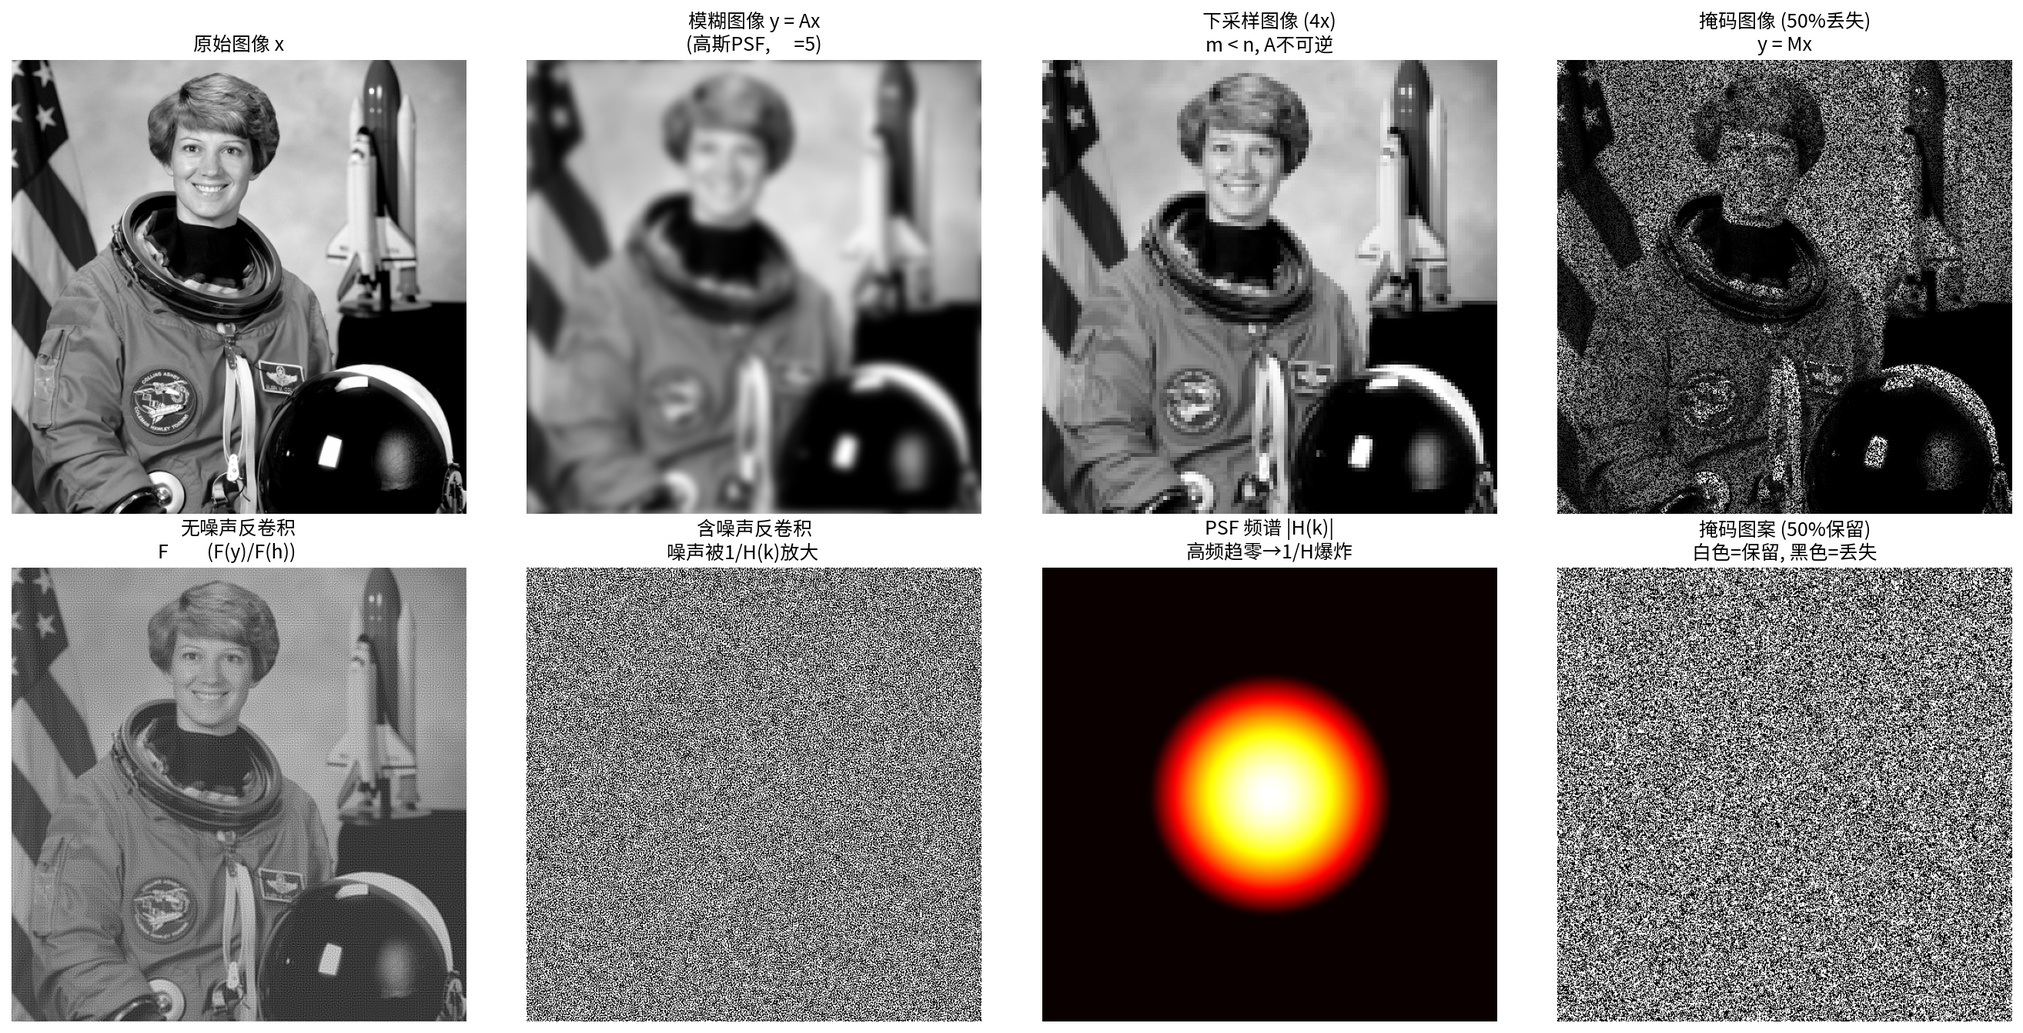
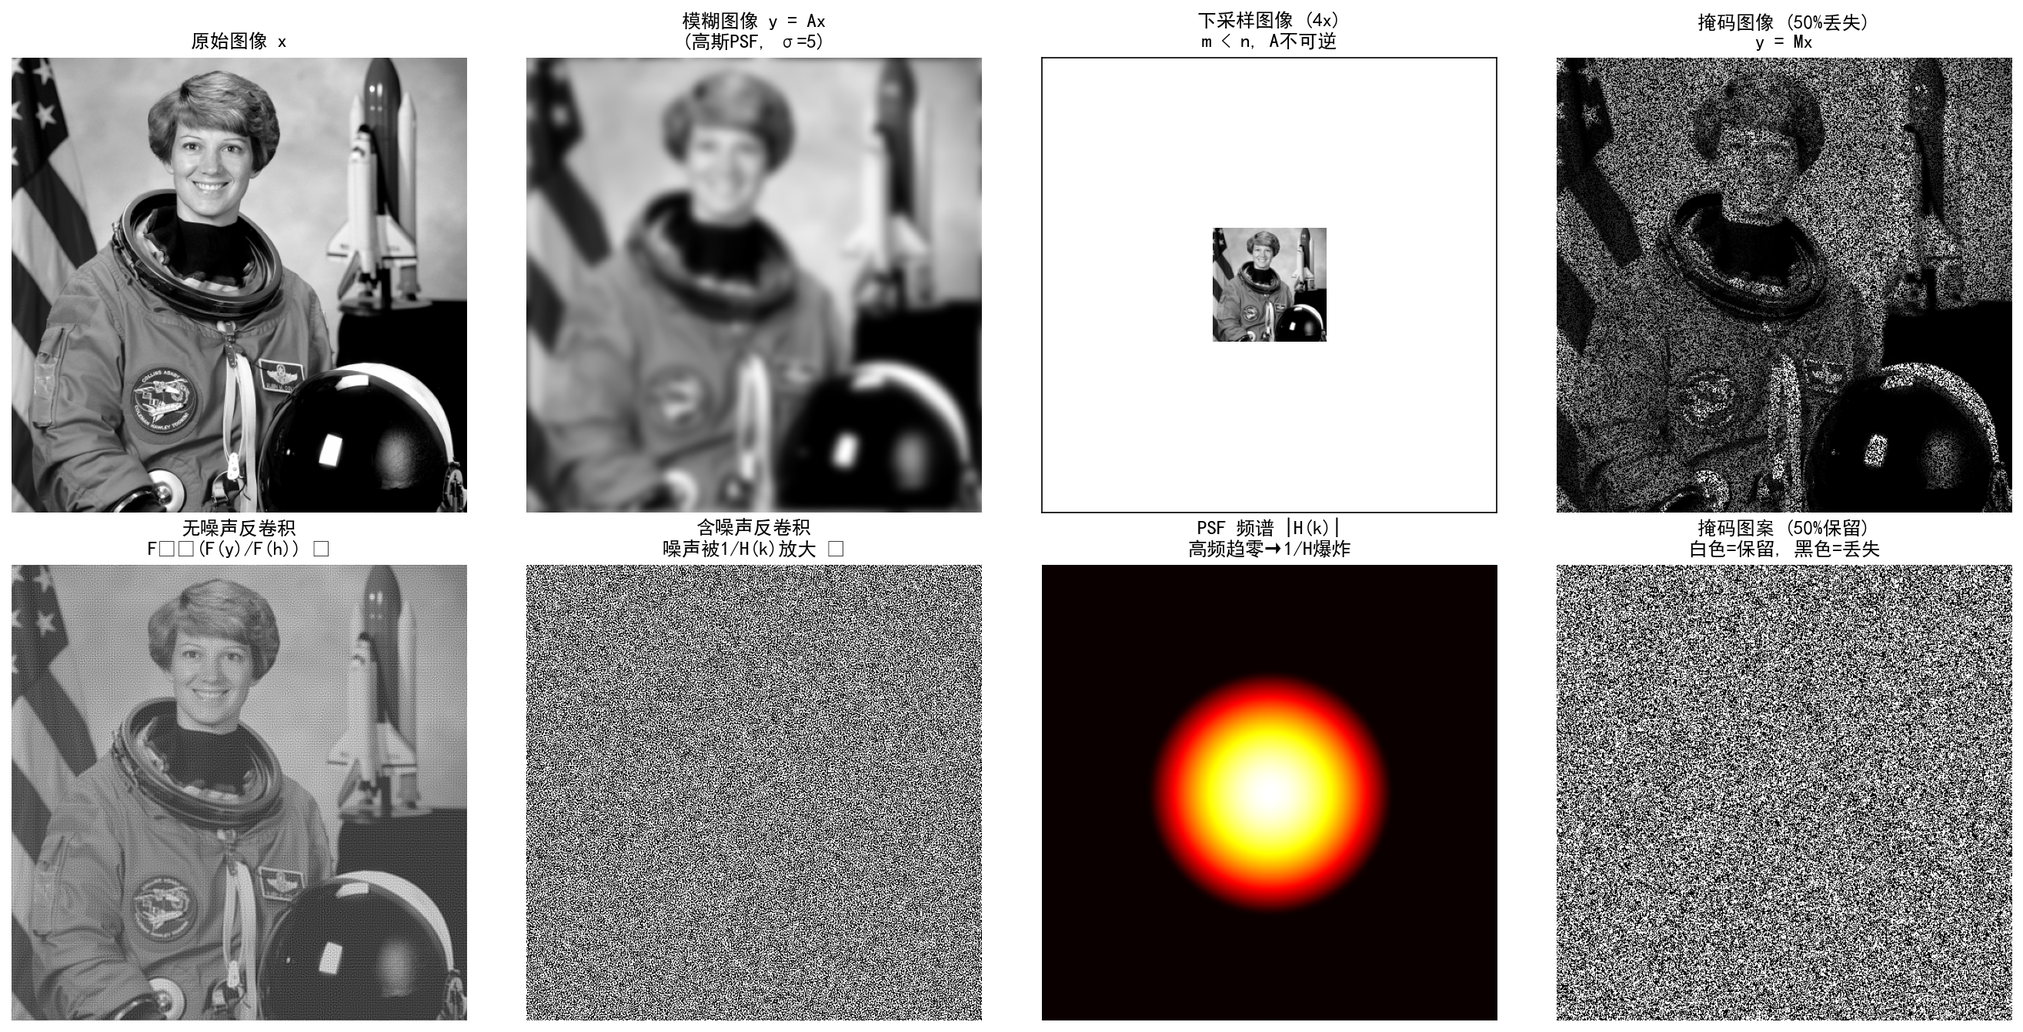
1

diff --git a/第1章 逆问题与贝叶斯推断/第一章 配套实验/实验1.2-2/1.2-2.py b/第1章 逆问题与贝叶斯推断/第一章 配套实验/实验1.2-2/1.2-2.py
@@ -106,11 +106,16 @@ axes[1, 1].set_title('误差热力图\n|x - x_FBP|')
 axes[1, 1].axis('off')
 plt.colorbar(im2, ax=axes[1, 1], fraction=0.046, pad=0.04)
 
-axes[1, 2].text(0.1, 0.7, f'FBP 重建指标:', fontsize=12, fontweight='bold')
-axes[1, 2].text(0.1, 0.5, f'投影角度数: {len(theta)}', fontsize=11)
-axes[1, 2].text(0.1, 0.3, f'RMSE: {rmse_fbp:.4f}', fontsize=11)
-axes[1, 2].text(0.1, 0.1, f'PSNR: {psnr_fbp:.2f} dB', fontsize=11)
-axes[1, 2].axis('off')
+# 第 6 格：稀疏角度下的正弦图——直观展示"投影角度不足时正向信息大量缺失"，
+# 为 1.3 节不适定性（角度不足→信息不可逆丢失）埋下伏笔
+theta_sparse = np.linspace(0, 180, 30, endpoint=False)
+sinogram_sparse = radon(phantom, theta=theta_sparse, circle=True)
+im3 = axes[1, 2].imshow(sinogram_sparse, cmap='gray', aspect='auto',
+                        extent=[theta_sparse.min(), theta_sparse.max(), sinogram_sparse.shape[0], 0])
+axes[1, 2].set_title(f'稀疏角度正弦图 (仅 {len(theta_sparse)} 个角度)\n采样不足 → 正向信息缺失', fontsize=11)
+axes[1, 2].set_xlabel('投影角度 θ (°)')
+axes[1, 2].set_ylabel('探测器位置 t')
+plt.colorbar(im3, ax=axes[1, 2], fraction=0.046, pad=0.04)
 
 plt.suptitle('Radon 变换与 FBP 重建\n（CT 成像的正向模型 $y = Ax$ 与逆问题求解）', fontsize=14, y=1.02)
 plt.tight_layout()
@@ -129,6 +134,7 @@ import json
 results_summary = {
     'image_size': n,
     'num_projection_angles': len(theta),
+    'num_projection_angles_sparse': len(theta_sparse),
     'rmse_fbp': float(round(rmse_fbp, 6)),
     'psnr_fbp_dB': float(round(psnr_fbp, 2)),
 }

diff --git a/第1章 逆问题与贝叶斯推断/第一章 配套实验/实验1.2-1/1.2-1.py b/第1章 逆问题与贝叶斯推断/第一章 配套实验/实验1.2-1/1.2-1.py
@@ -95,9 +95,19 @@ axes[0, 1].imshow(y_blur, cmap='gray')
 axes[0, 1].set_title('模糊图像 y = Ax\n(高斯PSF, σ=5)')
 axes[0, 1].axis('off')
 
-axes[0, 2].imshow(y_ds, cmap='gray')
+# 下采样图真实尺寸只有 128×128，这里不拉升、保持真实像素尺寸，
+# 用 extent 把它居中放在 512×512 坐标系的正中，四周留白，
+# 让它在其子图框内明显比其它 512×512 的子图小，直观体现"信息不可逆丢失"
+half = y_ds.shape[0] / 2.0
+cx = n / 2.0
+axes[0, 2].imshow(y_ds, cmap='gray',
+                  extent=[cx - half, cx + half, cx + half, cx - half],
+                  aspect='equal')
+axes[0, 2].set_xlim(0, n)
+axes[0, 2].set_ylim(n, 0)          # imshow 原点在左上，故 y 轴反向
 axes[0, 2].set_title('下采样图像 (4x)\nm < n, A不可逆')
-axes[0, 2].axis('off')
+axes[0, 2].set_xticks([])
+axes[0, 2].set_yticks([])
 
 axes[0, 3].imshow(y_mask, cmap='gray')
 axes[0, 3].set_title('掩码图像 (50%丢失)\ny = Mx')

diff --git a/第1章 逆问题与贝叶斯推断/1.1 什么是逆问题.md b/第1章 逆问题与贝叶斯推断/1.1 什么是逆问题.md
@@ -8,7 +8,7 @@
 - 你听到走廊里一串脚步声，马上判断"这大概是谁来了"；
 - 你面对一幅缺了角的拼图，会盯着那几块碎片，推断缺失的部分该是什么图案。
 
-这些动作看似平常，其实共享着同一种思维模式——**从看得见的"效果"，去反推看不见的"原因"**。
+这些动作看似平常，其实共享着同一种思维模式——**从感受到的"效果"，去反推看不见的"原因"**。
 
 科学和工程里也全是这种场景：
 
@@ -34,7 +34,7 @@
 </tr>
 </table>
 <p style="font-size: 0.9em; color: #666; margin-top: 10px;">
-<strong>图1.1-1.3</strong> 逆问题的典型应用：(左)CT医学成像，通过X射线投影重建人体内部结构；(中)天文学成像，从稀疏观测数据重建黑洞影像；(右)地球物理勘探，从地震波记录推断地下结构。
+<strong>图1.1-1.3</strong> 是逆问题的典型应用：(左)CT医学成像，通过X射线投影重建人体内部结构；(中)天文学成像，从稀疏观测数据重建黑洞影像；(右)地球物理勘探，从地震波记录推断地下结构。
 </p>
 </div>
 
@@ -42,7 +42,6 @@
 
 **这，就是逆问题（inverse problem）的核心——从效果反推原因。**
 
-> **路标句**：把"逆问题"这个词先混个眼熟就行。它和"正问题"是一对反义词，下一节我们马上拆开看。
 
 ---
 
@@ -69,9 +68,7 @@ $$y = Ax$$
 | 典型例子 | 已知器官密度，计算X射线投影 | 已知X射线投影，重建器官密度图像 |
 | 难度 | 一般可直接计算 | 需要正则化等额外手段 |
 
-> **路标句**：这里"适定/不适定"这两个词先混个眼熟就行，1.3 节我们会专门拆解它们到底是什么意思。
-
-在图像与视觉领域，逆问题简直无处不在：**去模糊**（从模糊图恢复清晰图）、**超分辨率**（从低分辨率重建高分辨率细节）、**CT重建**（从投影数据恢复截面）、**图像修复**（填补缺失区域）……本质上全都是"从退化或残缺的观测里，把原始场景信息捞回来"。
+在图像与视觉领域，逆问题简直无处不在：**去模糊**（从模糊图恢复清晰图）、**超分辨率**（从低分辨率重建高分辨率细节）、**CT重建**（从投影数据恢复截面）、**图像修复**（填补缺失区域）……本质上全都是"从退化或残缺的观测里，把原始场景信息捞回来"。而文生图则是这一逻辑的极端推演：它试图仅凭高度抽象的语义描述，从近乎空白的观测中“无中生有”地恢复出视觉实体，将逆问题的欠定性推向了极致。
 
 **因为**逆问题和"正问题"是镜像关系，所以理解逆问题最快的捷径，是先吃透正向模型。以 CT 重建为例（图1.4）：正问题把物体截面沿各个角度做线积分（这叫 Radon 变换，1.2 节会细讲），得到一张叫"正弦图"（sinogram）的投影数据；逆问题则是从这张正弦图出发，重建出原始截面。你可以清楚看到——正弦图本身根本没法"直接读"，必须解逆问题才能得到能看懂的图。
 
@@ -80,7 +77,7 @@ $$y = Ax$$
 <br/><strong>图1.4</strong> 核桃的二维截面（左）及其对应的正弦图（右）。正弦图是CT扫描仪的直接输出——各角度的线积分投影。它本身无法直观解读，必须求解逆问题才能重建出可理解的截面图像。
 </div>
 
-> **逆问题的分类（先知道有这回事）。** 按正向模型是否线性，逆问题分**线性逆问题**（$y = Ax$）和**非线性逆问题**（$y = \mathcal{A}(x)$）。按是否满足 Hadamard 三准则，又分**适定**和**不适定**两类。本书聚焦**线性不适定逆问题**——这是最基础也最普遍的情形，贝叶斯框架的数学推导在这里最干净。非线性情形（如相位恢复、盲去卷积）思路相同但推导更复杂，第13章和第18章会初步触及。
+> **逆问题的分类。** 按正向模型是否线性，逆问题分**线性逆问题**（$y = Ax$）和**非线性逆问题**（$y = \mathcal{A}(x)$）。按是否满足 Hadamard 三准则，又分**适定**和**不适定**两类。本书聚焦**线性不适定逆问题**——这是最基础也最普遍的情形，贝叶斯框架的数学推导在这里最干净。非线性情形（如相位恢复、盲去卷积）思路相同但推导更复杂。
 
 ---
 
@@ -101,7 +98,7 @@ $$y = Ax$$
 **既然**直接求逆在数学上已经靠不住，从计算角度再拆一层，逆问题的困难还能归结为三道鸿沟：
 
 1. **从连续到离散**：真实物理过程发生在连续空间，但计算机只能在有限维度上算。离散化是必经之路，而离散化的方式和精度直接影响重建质量。
-2. **从精确到含噪**：理想模型假设 $y = Ax$，但实际观测总是 $y = Ax + \text{噪声}$。噪声看着小，却被逆运算放大成灾难性的误差——1.4 节系统建模噪声，1.5 节展示怎么同时对付噪声和不适用性。
+2. **从精确到含噪**：理想模型假设 $y = Ax$，但实际观测总是 $y = Ax + \text{噪声}\varepsilon$。噪声看着小，却被逆运算放大成灾难性的误差——我们在1.4 节会系统建模噪声，在1.5 节中展示怎么同时对付噪声和不适定性。
 3. **从无限到有限**：我们只有有限个观测值，却可能要重建无穷维的未知量。信息不足是本质性的，任何计算方法都得靠额外的先验知识来"补全"缺失信息。
 
 **于是**我们面对的是一个既缺信息、又带噪声、还被离散化约束的难题。图1.5 是地震成像的重建结果：从地表接收到的反射波（有限、含噪的离散数据）出发，算出地下不同深度的地层结构。这结果没法从原始观测直接读出，必须借助正则化和优化算法才能得到稳定、有意义的重建。
@@ -111,6 +108,6 @@ $$y = Ax$$
 <br/><strong>图1.5</strong> 典型的地震成像结果，展示了地下不同深度的地层结构。这些图像并非直接观测所得，而是从地震波场记录出发，通过求解逆问题并引入适当的正则化策略计算得到的。
 </div>
 
-**一句话收住本节**：计算逆问题的核心任务，是把逆问题的严格数学理论，扩展成能实际跑起来的算法——在有限、含噪的离散观测下，稳定地重建未知量。这不仅需要数学分析（刻画适定性和收敛性），还要数值线性代数、优化算法和统计推断一起上。
+计算逆问题的核心任务，是把逆问题的严格数学理论，扩展成能实际跑起来的算法——在有限、含噪的离散观测下，稳定地重建未知量。这不仅需要数学分析（刻画适定性和收敛性），还要数值线性代数、优化算法和统计推断一起上。
 
-> **接着往下走**：想讨论"怎么反推"，得先搞清"观测是怎么生成的"。这正是下一节（1.2）的主题——正向模型 $y = Ax$。
+>我们想讨论"怎么反推"，得先搞清"观测是怎么生成的"。这正是下一节（1.2）的主题——正向模型 $y = Ax$。

diff --git a/第1章 逆问题与贝叶斯推断/1.0 本章导读.md b/第1章 逆问题与贝叶斯推断/1.0 本章导读.md
@@ -10,9 +10,7 @@
 
 在动笔之前，我想先给你一个"上帝视角"，因为这个视角会贯穿全书。
 
-你可能会想：图像去模糊、CT 重建，这些不就是图像处理的小技巧吗？和机器学习、大语言模型（LLM）有什么关系？答案是——**它们本质上是同一个问题的不同侧面**。
-
-近年有一份很漂亮的综述（Elmusrati，《估计理论·机器学习·生成式 AI 的概率统一框架》）把这件事讲透了。它指出，从经典估计理论到现代深度学习、大模型，**最大似然（MLE）、最大后验（MAP）、贝叶斯推断、甚至注意力机制和 LLM，都是"从含噪或带偏的观测中推断隐藏成因"这一共同目标的不同表现形式**。
+你可能会想：图像去模糊、CT 重建，这些不就是图像处理的小技巧吗？和机器学习、图像生成有什么关系？答案是——**它们本质上是同一个问题的不同侧面**。实际上，从经典估计理论到现代深度学习、大模型，**最大似然（MLE）、最大后验（MAP）、贝叶斯推断、甚至注意力机制和 LLM，都是"从含噪或带偏的观测中推断隐藏成因"这一共同目标的不同表现形式**。
 
 怎么理解这句话？看这个统一模型：
 
@@ -25,7 +23,10 @@ $$y_t = f(\mathbf{x}, t) + n_t$$
 - **语言生成**：给一串上文 $\mathbf{x}$，预测下一个词 $y$；反过来，整段文本也是在"从残缺上下文推断隐藏语义成因"。
 - **图像重建**：给模糊/含噪观测 $y$，反推清晰原图 $\mathbf{x}$——这就是本书的主角。
 
-这份综述里有一句点睛之笔：**"最大似然、MAP、贝叶斯分类和深度学习，都代表了一个共同目标的不同侧面：从含噪或带偏的观测中推断隐藏成因。"**
+**最大似然、MAP、贝叶斯分类和深度学习，都代表了一个共同目标的不同侧面：从含噪或带偏的观测中推断隐藏成因。**
+
+> 上面这个统一模型 $y_t = f(\mathbf{x}, t) + n_t$ 是**最一般**的形式。本书**先把 $f$ 收敛到线性、无显式时间项的特例 $y = Ax+\varepsilon$**：现实里的成像系统（相机、CT、MRI）大多能很好地近似成线性，线性让我们可以用矩阵、SVD、算子理论把这些困难"摊开来看"。而通用索引$t$会在本书的下半部分讨论扩散模型生成时以过程步的形式出现。
+>
 
 所以你会发现一条清晰的演进链：
 - 没有先验知识时，我们用**最大似然（MLE）**——只信数据，找最贴合观测的 $\mathbf{x}$。
@@ -35,16 +36,6 @@ $$y_t = f(\mathbf{x}, t) + n_t$$
 
 **本书的全部故事，就是这条链的展开。** 而它的起点，正是本章要讲的两层困难和一个框架：逆问题为什么难，以及贝叶斯怎么同时化解这两难。
 
----
-
-**本章目标**（读完你应该能）：
-- 说清楚"逆问题"和"正问题"到底差在哪，为什么方向一反过来就变难了
-- 用数学式子 $y = Ax$ 描述"观测是怎么生成的"
-- 解释为什么直接求逆 $x = A^{-1}y$ 在绝大多数时候会翻车（第一层困难：不适定性）
-- 理解现实观测里的噪声从哪来、怎么用"似然函数"精确描述（第二层困难：噪声）
-- 用贝叶斯框架把"数据"和"信念"合在一起，得到一个关于 $x$ 的完整概率描述——并看清它和 MAP、MLE、乃至扩散模型是"一家人"
-
----
 
 ## 逆问题到底难在哪？两层困难
 
@@ -60,7 +51,7 @@ $$p(x|y) \propto p(y|x) \cdot p(x)$$
 
 左边 $p(x|y)$ 是**后验**（白话：给定观测后，$x$ 的概率分布——这也是我们最终的答案），右边 $p(y|x)$ 是**似然**（白话：数据告诉我们什么，用来应对噪声），乘上 $p(x)$ 是**先验**（白话：我们额外知道什么，用来应对不适定性）。这三样合起来，逆问题求解就不再是"找一个孤零零的数"，而是"刻画一整个分布"。
 
-> **和本书库的关系**：这条"后验 = 似然 × 先验"的主线，正是上面那张"MLE → MAP → 贝叶斯 → 扩散"演进链的数学引擎。本书后面所有章节（先验设计、MAP 优化、MCMC 采样、得分函数、扩散模型）都是从这一个式子长出来的枝干。
+> 这条"后验 = 似然 × 先验"的主线，正是上面那张"MLE → MAP → 贝叶斯 → 扩散"演进链的数学引擎。本书后面所有章节（先验设计、MAP 优化、MCMC 采样、得分函数、扩散模型）都是从这一个式子长出来的枝干。
 
 ---
 
@@ -74,7 +65,7 @@ $$p(x|y) \propto p(y|x) \cdot p(x)$$
 - **揭示第二层困难（1.4）**——因为真实观测还被噪声污染，于是我们建模噪声、引出"似然函数"
 - **贝叶斯统一收束（1.5）**——既然两层困难同根（信息不足），就用"后验 = 似然 × 先验"一并解决，并看清它与 MAP、扩散模型同属一家
 
-这一章立下的理论基石——**后验 = 似然 × 先验**——后面整本书都会反复用到。记住这条主线，下面我们就从一个你每天都在做的动作开始。
+这一章立下的理论基石——**后验 = 似然 × 先验**——后面整本书都会反复用到。记住这条主线，1.1章节中我们就从一个你每天都在做的动作开始。
 
 ```
 定义问题(1.1) → 正向模型(1.2) → 第一层困难：不适定性(1.3) → 第二层困难：噪声(1.4) → 贝叶斯统一解法(1.5)

diff --git a/第1章 逆问题与贝叶斯推断/1.4 噪声建模与似然函数.md b/第1章 逆问题与贝叶斯推断/1.4 噪声建模与似然函数.md
@@ -222,7 +222,7 @@ $\phi$ 为某凸函数：
 
 ### 实际效果
 
-![实验1.4-1 三种噪声对比](./配套实验/实验1.4-1/实验1_4_1_噪声建模.png)
+![实验1.4-1 三种噪声对比](<./第一章 配套实验/实验1.4-1/实验1_4_1_噪声建模.png>)
 
 三种噪声视觉差异鲜明：
 - **高斯**均匀覆盖全图，PSNR 21.71 dB，但 SSIM 较低（0.1856）——SSIM 对结构保真敏感，高斯虽"均匀"却破坏了亮度、对比度、结构三维度信息
@@ -231,7 +231,7 @@ $\phi$ 为某凸函数：
 
 残差图对应三种数据项：高斯残差各处置均匀（L² 均匀惩罚）、Poisson 亮区波动更大（KL 加权惩罚）、脉冲残差稀疏位置有极大值（L¹ 稀疏大偏差容忍）。
 
-![实验1.4-1 信号依赖性验证](./配套实验/实验1.4-1/实验1_4_1_噪声信号依赖性.png)
+![实验1.4-1 信号依赖性验证](<./第一章 配套实验/实验1.4-1/实验1_4_1_噪声信号依赖性.png>)
 
 左图验证 Poisson 标准差随信号强度增大：$\sigma \propto \sqrt{x}$，与理论 $\sigma = \sqrt{x \cdot 0.01}$ 吻合。右图对比高斯：实测 $\sigma$ 各亮度段基本恒为 0.1，体现信号无关性。这对应本节核心结论：**噪声类型不同，统计特性截然不同，正因如此不同物理噪声对应不同数据项。**
 
@@ -264,7 +264,7 @@ $\phi$ 为某凸函数：
 
 ### 实际效果
 
-![实验1.4-2 似然的局限](./配套实验/实验1.4-2/实验1_4_2_似然的局限.png)
+![实验1.4-2 似然的局限](<./第一章 配套实验/实验1.4-2/实验1_4_2_似然的局限.png>)
 
 运行结果（具体数值因随机噪声而异）：
 

diff --git a/第13章 条件生成与逆问题求解/13.3 近似方法分类与DPS深度剖析.md b/第13章 条件生成与逆问题求解/13.3 近似方法分类与DPS深度剖析.md
@@ -150,6 +150,16 @@ $$p(x_0|x_t) \approx \mathcal{N}(\hat{x}_{0|t},\, \sigma_t^2 \nabla_{x_t}\hat{x}
 
 完整协方差近似计算代价高，因为 `∇_{x_t}x̂_{0|t}` 是 `n×n` 的 Jacobian 矩阵，高维图像里存算都不现实。实践中常用对角或低秩近似降代价。
 
+### 非线性算子的扩展思考
+
+DPS 和 DDRM 均假设测量模型 `y = Ax + ε` 是线性的。若 `A` 是非线性的（例如相位恢复 `y = |Fx|²`，或盲去卷积同时估计 `K` 和 `x`），后验得分分解 `∇log p(x|y) = ∇log p(x) + ∇log p(y|x)` 仍然成立——这是贝叶斯推断的一般结论，与线性非线性无关。
+
+但第二项 `∇log p(y|x_t)` 的计算面临两个新困难：
+1. **谱域分解失效**：DDRM 依赖的 SVD 结构不存在，无法逐频谱分量精确条件化；
+2. **Jacobian 计算**：DPS 中的 `A^⊤(y - Ax̂_0)` 需替换为 `∇_x A(x̂_0)^⊤ · ...`，需用链式法则或自动微分。
+
+实践中常见做法是逐步线性化（Gauss-Newton 风格）或用自动微分算链式梯度。详细推导超出了本书范围，此处不再讨论。
+
 > **小结**：显式近似用闭式近似 `∇_{x_t}log p(y|x_t)`，核心策略是用 Tweedie 估计 `x̂_{0|t}` 替代不可解积分。精度从 delta（DPS）到各向同性高斯（ΠGDM）再到完整协方差（Moment Matching）逐步递进，但通用性逐步降低——最精确的方法往往只在线性算子下有闭式。DPS 以最低代价支持非线性算子，是实践中用得最广的显式近似。下一节深剖 DPS 的完整推导与算法细节。
 
 ---

diff --git a/第1章 逆问题与贝叶斯推断/附录1A 图像质量度量.md b/第1章 逆问题与贝叶斯推断/附录1A 图像质量度量.md
@@ -135,7 +135,7 @@ SSIM 比 MSE/PSNR 更符合人眼，因为：
 
 ### 实际效果
 
-![实验1A-1 质量度量对比](./配套实验/附录1A/实验1_a_1_质量评估.png)
+![实验1A-1 质量度量对比](<./第一章 配套实验/附录1A/实验1_a_1_质量评估.png>)
 
 **第一行**展示原始与三个典型噪声水平的视觉：
 - **原始**：MSE=0，PSNR→∞，SSIM=1.000
